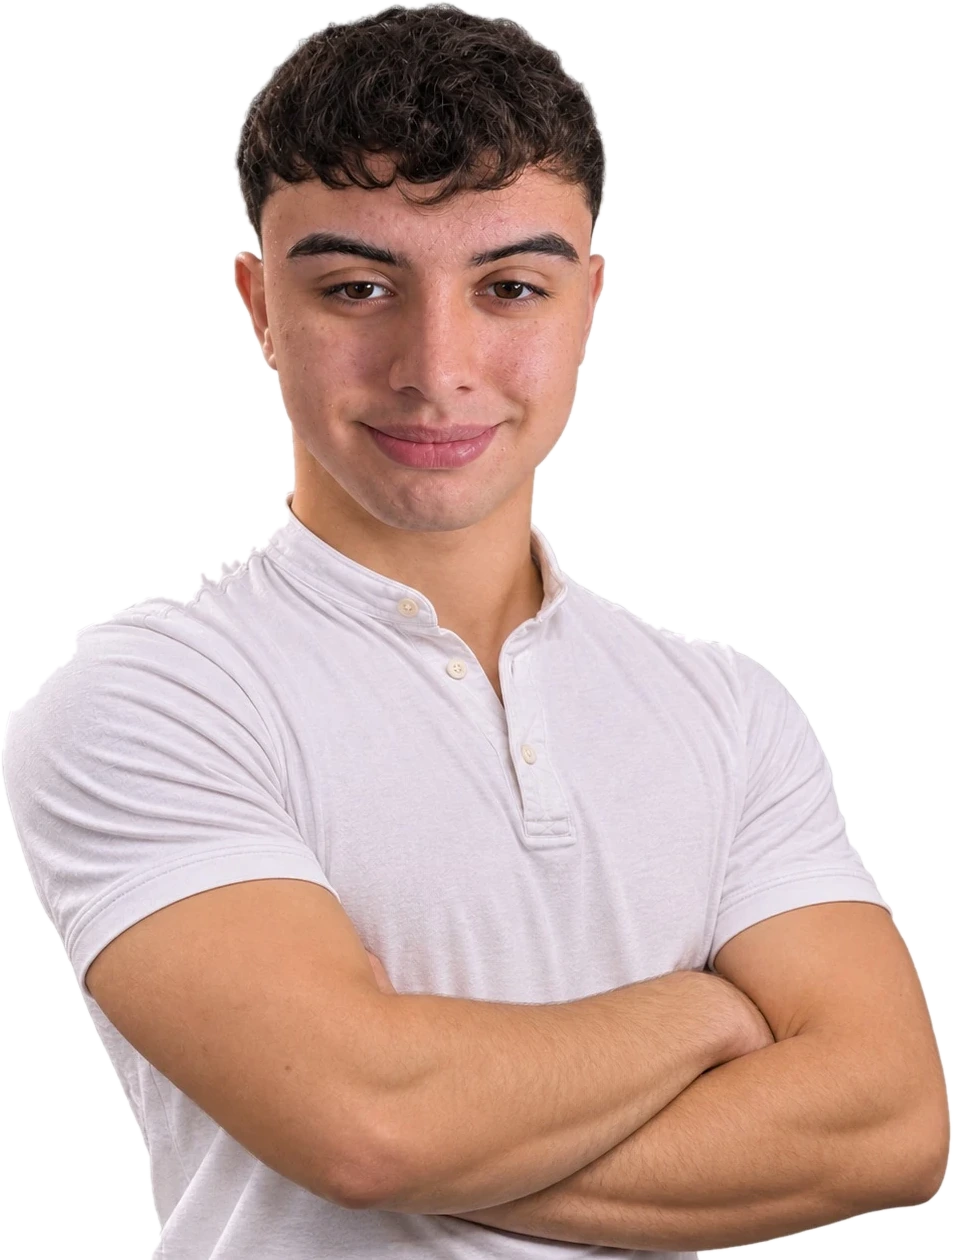
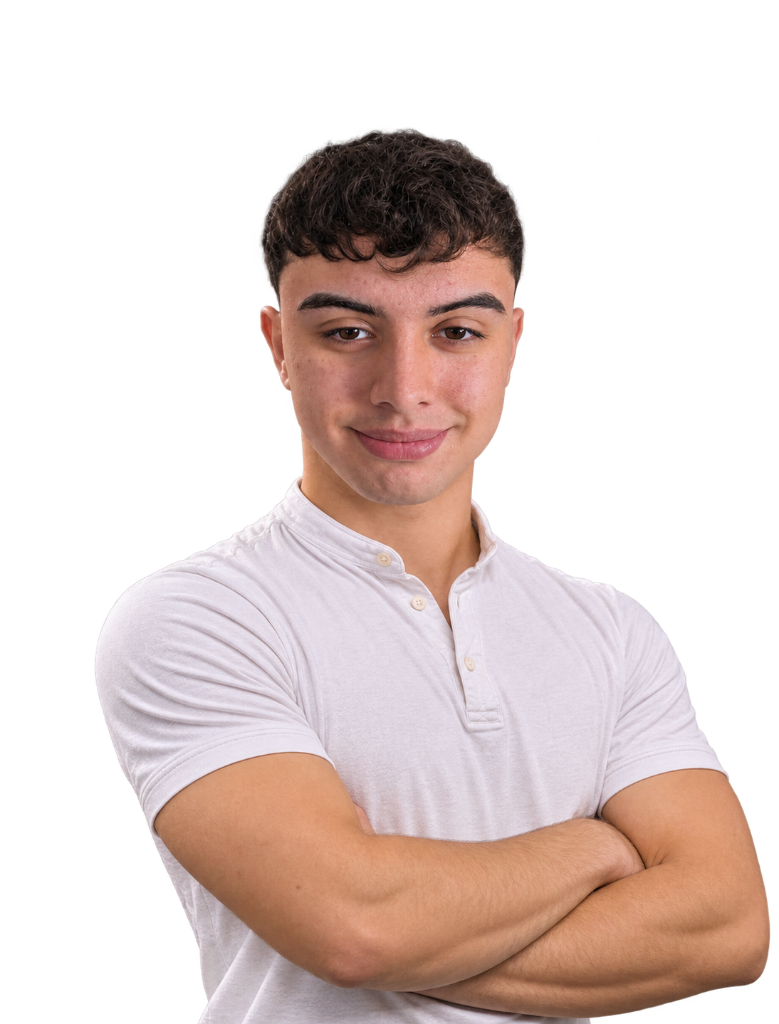
feat(hero, metricas): foto real de Erick en hero y rediseño visual de tarjetas de métricas

diff --git a/src/components/MetricsBand.tsx b/src/components/MetricsBand.tsx
@@ -1,105 +1,292 @@
 import { useEffect, useRef } from "react";
 import { animate, motion, useInView } from "framer-motion";
+import {
+  Clock,
+  ShieldCheck,
+  TrendingUp,
+  Search,
+  CheckCircle2,
+  Sparkles,
+} from "lucide-react";
 import { useReducedMotion } from "./motion-pref";
 
-interface Metric {
+interface MetricData {
   id: string;
+  badge: {
+    icon: typeof Clock;
+    text: string;
+    pillBg: string;
+    pillText: string;
+    pillBorder: string;
+  };
   prefix?: string;
   from: number;
   to: number;
   suffix?: string;
-  label: string;
+  suffixAccent?: string;
+  title: string;
   detail: string;
+  visualElement: {
+    type: "progress" | "accreditation" | "serp";
+    meta: string;
+  };
 }
 
-const metrics: Metric[] = [
+const METRICS_DATA: MetricData[] = [
   {
     id: "horas",
+    badge: {
+      icon: Clock,
+      text: "Experiencia Práctica",
+      pillBg: "bg-blue-500/10",
+      pillText: "text-[#0044FF]",
+      pillBorder: "border-blue-500/20",
+    },
     prefix: "+",
     from: 0,
     to: 1000,
     suffix: " h",
-    label: "de experiencia real",
-    detail: "Marketing, gestión y desarrollo web en proyectos en producción.",
+    suffixAccent: "text-[#0044FF]",
+    title: "de experiencia real",
+    detail:
+      "Marketing, gestión y desarrollo web en producción para empresas reales, sin proyectos de tutorial.",
+    visualElement: {
+      type: "progress",
+      meta: "Webs · ERPs · Automatización n8n",
+    },
   },
   {
     id: "acreditacion",
+    badge: {
+      icon: ShieldCheck,
+      text: "Acreditación Oficial",
+      pillBg: "bg-emerald-500/10",
+      pillText: "text-emerald-600",
+      pillBorder: "border-emerald-500/20",
+    },
     from: 0,
     to: 375,
     suffix: " h",
-    label: "Agente del Cambio Tecnológico",
-    detail: "Acreditación oficial de la Generalitat de Catalunya.",
+    suffixAccent: "text-emerald-600",
+    title: "Agente del Cambio Tecnológico",
+    detail:
+      "Acreditación oficial certificada por la Generalitat de Catalunya en digitalización empresarial.",
+    visualElement: {
+      type: "accreditation",
+      meta: "Generalitat de Catalunya · Certificado",
+    },
   },
   {
     id: "seo",
+    badge: {
+      icon: TrendingUp,
+      text: "SEO Técnico Medible",
+      pillBg: "bg-amber-500/10",
+      pillText: "text-amber-700",
+      pillBorder: "border-amber-500/20",
+    },
     prefix: "Top ",
     from: 9,
     to: 1,
-    label: "en Google",
-    detail: "diversplas.es, posicionada por SEO técnico en Barcelona.",
+    title: "en Google España",
+    detail:
+      "diversplas.es posicionada en el primer puesto orgánico para extraescolares en Barcelona.",
+    visualElement: {
+      type: "serp",
+      meta: 'Google: "extraescolares barcelona"',
+    },
   },
 ];
 
-function Counter({ metric }: { metric: Metric }) {
+function AnimatedValue({
+  from,
+  to,
+  prefix,
+  suffix,
+  suffixAccent,
+}: {
+  from: number;
+  to: number;
+  prefix?: string;
+  suffix?: string;
+  suffixAccent?: string;
+}) {
   const reduce = useReducedMotion();
   const ref = useRef<HTMLSpanElement>(null);
   const inView = useInView(ref, { once: true, margin: "-15% 0px" });
-  const fmt = { format: (n: number) => String(n).replace(/\B(?=(\d{3})+(?!\d))/g, ".") };
+  const fmt = {
+    format: (n: number) => String(n).replace(/\B(?=(\d{3})+(?!\d))/g, "."),
+  };
 
   useEffect(() => {
     const node = ref.current;
     if (!node) return;
     const write = (v: number) => {
-      node.textContent = `${metric.prefix ?? ""}${fmt.format(Math.round(v))}${metric.suffix ?? ""}`;
+      node.textContent = fmt.format(Math.round(v));
     };
     if (!inView || reduce) {
-      write(reduce || inView ? metric.to : metric.from);
+      write(reduce || inView ? to : from);
       return;
     }
-    const controls = animate(metric.from, metric.to, {
+    const controls = animate(from, to, {
       duration: 1.8,
       ease: [0.22, 1, 0.36, 1],
       onUpdate: write,
     });
     return () => controls.stop();
     // eslint-disable-next-line react-hooks/exhaustive-deps
-  }, [inView, reduce, metric.to]);
+  }, [inView, reduce, to]);
 
   return (
-    <span ref={ref} className="tabular-nums">
-      {`${metric.prefix ?? ""}${fmt.format(metric.to)}${metric.suffix ?? ""}`}
+    <span className="inline-flex items-baseline font-display text-[clamp(3.4rem,5.6vw,5.2rem)] font-bold tracking-[-0.05em] leading-[0.92] text-zinc-950">
+      {prefix && (
+        <span className={to === 1 ? "text-zinc-950 mr-1.5" : "text-zinc-950"}>
+          {prefix}
+        </span>
+      )}
+      <span ref={ref} className="tabular-nums">
+        {fmt.format(to)}
+      </span>
+      {suffix && (
+        <span
+          className={`ml-1 text-[0.62em] font-bold ${suffixAccent ?? "text-zinc-950"}`}
+        >
+          {suffix}
+        </span>
+      )}
     </span>
   );
 }
 
-/** Big-number proof band right after the hero. */
 export function MetricsBand() {
   const reduce = useReducedMotion();
+
   return (
     <section
       id="metricas"
       aria-label="Resultados en cifras"
-      className="section-light t-ink t-line border-t py-14 sm:py-20 2xl:py-28"
+      className="section-light relative overflow-hidden border-t border-black/10 bg-[#FAF9F6] py-16 sm:py-20 2xl:py-24"
     >
-      <div className="mx-auto grid w-full max-w-[1380px] gap-12 px-5 sm:px-8 md:grid-cols-3 md:gap-8">
-        {metrics.map((m, i) => (
-          <motion.div
-            key={m.id}
-            initial={reduce ? false : { opacity: 0, y: 36 }}
-            whileInView={{ opacity: 1, y: 0 }}
-            viewport={{ once: true, margin: "-10% 0px" }}
-            transition={{ duration: 0.8, delay: i * 0.12, ease: [0.22, 1, 0.36, 1] }}
-            className="md:border-l md:pl-8 first:md:border-l-0 first:md:pl-0 t-line"
-          >
-            <p className="font-display text-[clamp(3.4rem,8.2vw,7rem)] leading-[0.95] whitespace-nowrap font-bold tracking-[-0.05em]">
-              <Counter metric={m} />
-            </p>
-            <p className="font-display mt-3 text-xl font-semibold tracking-[-0.02em] sm:text-2xl">
-              {m.label}
-            </p>
-            <p className="t-muted mt-2 max-w-[34ch] text-base leading-snug">{m.detail}</p>
-          </motion.div>
-        ))}
+      <div className="mx-auto w-full max-w-[1380px] px-5 sm:px-8">
+        {/* Section Header */}
+        <div className="mb-10 flex flex-wrap items-end justify-between gap-4 border-b border-black/8 pb-6">
+          <div>
+            <div className="inline-flex items-center gap-2 text-xs font-bold uppercase tracking-wider text-[#0044FF]">
+              <Sparkles className="h-3.5 w-3.5" />
+              <span>Resultados medibles</span>
+            </div>
+            <h2 className="font-display mt-1 text-2xl font-bold tracking-tight text-zinc-950 sm:text-3xl">
+              Cifras con respaldo verificable.
+            </h2>
+          </div>
+          <p className="max-w-[42ch] text-sm leading-relaxed font-medium text-zinc-500 sm:text-base">
+            Cada métrica corresponde a sistemas reales en funcionamiento, horas
+            acreditadas y posicionamiento activo.
+          </p>
+        </div>
+
+        {/* 3 Visual Cards with Balanced Separation */}
+        <div className="grid grid-cols-1 gap-6 md:grid-cols-3 lg:gap-8">
+          {METRICS_DATA.map((m, i) => {
+            const Icon = m.badge.icon;
+            return (
+              <motion.article
+                key={m.id}
+                initial={reduce ? false : { opacity: 0, y: 32 }}
+                whileInView={{ opacity: 1, y: 0 }}
+                viewport={{ once: true, margin: "-10% 0px" }}
+                transition={{
+                  duration: 0.7,
+                  delay: i * 0.12,
+                  ease: [0.22, 1, 0.36, 1],
+                }}
+                className="group relative flex flex-col justify-between overflow-hidden rounded-[26px] border border-black/10 bg-white p-7 shadow-[0_8px_30px_-8px_rgba(0,0,0,0.05)] transition-all duration-300 hover:border-[#0044FF]/40 hover:shadow-[0_16px_40px_-12px_rgba(0,68,255,0.12)] sm:p-8"
+              >
+                {/* Top: Category Pill Badge */}
+                <div>
+                  <div className="flex items-center justify-between gap-3">
+                    <span
+                      className={`inline-flex items-center gap-1.5 rounded-full border px-3 py-1 text-xs font-semibold ${m.badge.pillBg} ${m.badge.pillText} ${m.badge.pillBorder}`}
+                    >
+                      <Icon className="h-3.5 w-3.5 shrink-0" />
+                      <span>{m.badge.text}</span>
+                    </span>
+                    <span className="font-mono text-xs font-semibold text-zinc-300">
+                      0{i + 1}
+                    </span>
+                  </div>
+
+                  {/* Center: Big Animated Number */}
+                  <div className="mt-7">
+                    <AnimatedValue
+                      from={m.from}
+                      to={m.to}
+                      prefix={m.prefix}
+                      suffix={m.suffix}
+                      suffixAccent={m.suffixAccent}
+                    />
+                  </div>
+
+                  {/* Title & Description */}
+                  <h3 className="font-display mt-3 text-xl font-bold tracking-[-0.02em] text-zinc-950 sm:text-2xl">
+                    {m.title}
+                  </h3>
+                  <p className="mt-2 text-sm leading-relaxed font-medium text-zinc-600 sm:text-base">
+                    {m.detail}
+                  </p>
+                </div>
+
+                {/* Bottom: Visual Micro-Component / Proof Element */}
+                <div className="mt-7 border-t border-zinc-100 pt-5">
+                  {m.visualElement.type === "progress" && (
+                    <div className="space-y-2">
+                      <div className="flex items-center justify-between text-xs font-semibold text-zinc-500">
+                        <span>Horas en producción</span>
+                        <span className="text-[#0044FF]">100% Prácticas</span>
+                      </div>
+                      <div className="h-2 w-full overflow-hidden rounded-full bg-zinc-100 p-0.5">
+                        <div className="h-full w-full rounded-full bg-gradient-to-r from-blue-500 to-[#0044FF]" />
+                      </div>
+                      <p className="font-mono text-[11px] text-zinc-400">
+                        {m.visualElement.meta}
+                      </p>
+                    </div>
+                  )}
+
+                  {m.visualElement.type === "accreditation" && (
+                    <div className="flex items-center justify-between rounded-xl border border-emerald-500/20 bg-emerald-50/60 p-2.5 px-3">
+                      <div className="flex items-center gap-2">
+                        <CheckCircle2 className="h-4 w-4 text-emerald-600" />
+                        <span className="text-xs font-bold text-emerald-900">
+                          Acreditación Oficial
+                        </span>
+                      </div>
+                      <span className="text-[11px] font-semibold text-emerald-700">
+                        Generalitat
+                      </span>
+                    </div>
+                  )}
+
+                  {m.visualElement.type === "serp" && (
+                    <div className="rounded-xl border border-zinc-200/80 bg-zinc-50/90 p-2.5 px-3">
+                      <div className="flex items-center justify-between gap-2">
+                        <div className="flex items-center gap-2 overflow-hidden">
+                          <Search className="h-3.5 w-3.5 shrink-0 text-zinc-400" />
+                          <span className="truncate font-mono text-[11px] text-zinc-700">
+                            extraescolares barcelona
+                          </span>
+                        </div>
+                        <span className="shrink-0 rounded bg-[#0044FF] px-1.5 py-0.5 font-mono text-[10px] font-bold text-white">
+                          #1 GOOGLE
+                        </span>
+                      </div>
+                    </div>
+                  )}
+                </div>
+              </motion.article>
+            );
+          })}
+        </div>
       </div>
     </section>
   );

diff --git a/src/components/StudioHero.tsx b/src/components/StudioHero.tsx
@@ -104,7 +104,7 @@ export function StudioHero({ onJumpToProjects }: StudioHeroProps) {
         className="pointer-events-none absolute inset-x-0 bottom-[150px] z-10 flex h-[48%] justify-center sm:bottom-0 sm:h-[50%] md:h-[54%] lg:h-[64%] xl:h-[72%]"
       >
         <motion.img
-          src="/erick-portrait-studio.webp"
+          src="/erick-portrait-studio.png"
           alt="Erick Rodríguez — Desarrollador Web y Automatización IA en Barcelona"
           initial={reduce ? false : { y: 100 }}
           animate={{ y: 0 }}

diff --git a/src/components/HangingCard.tsx b/src/components/HangingCard.tsx
@@ -162,7 +162,7 @@ export function HangingCard({
         </div>
         <div className="mx-4 mt-3 overflow-hidden rounded-2xl border-2 border-[#09090B] bg-[#0044FF]">
           <img
-            src="/erick-portrait-studio.webp"
+            src="/erick-portrait-studio.png"
             alt="Erick Rodríguez"
             loading="lazy"
             draggable={false}
